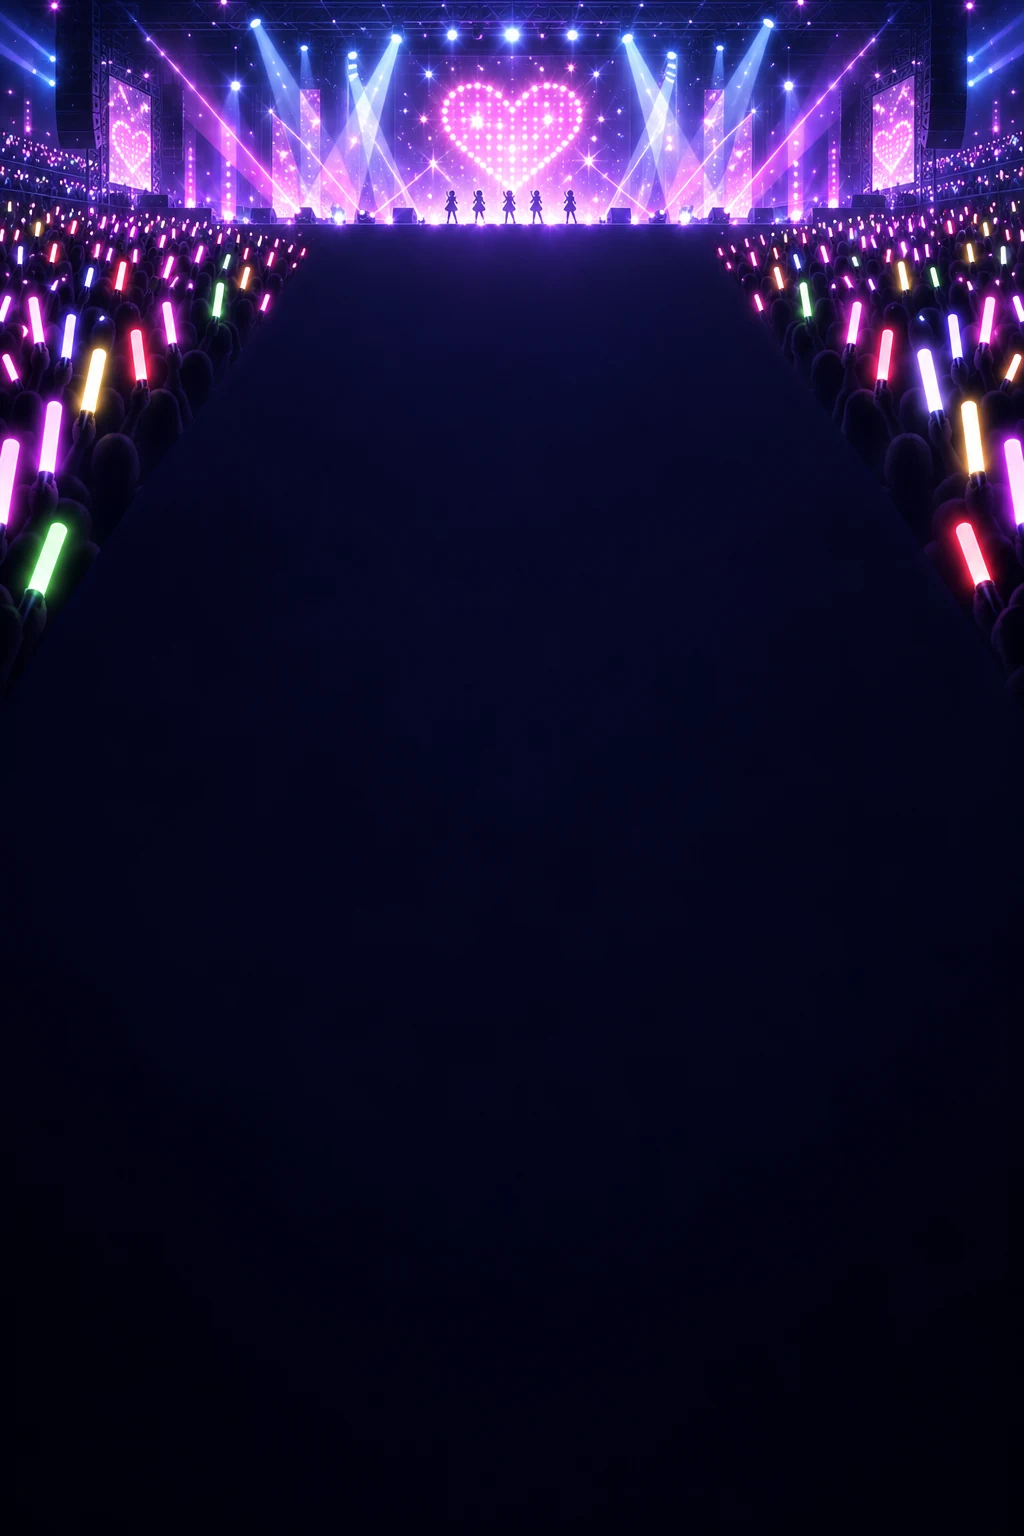
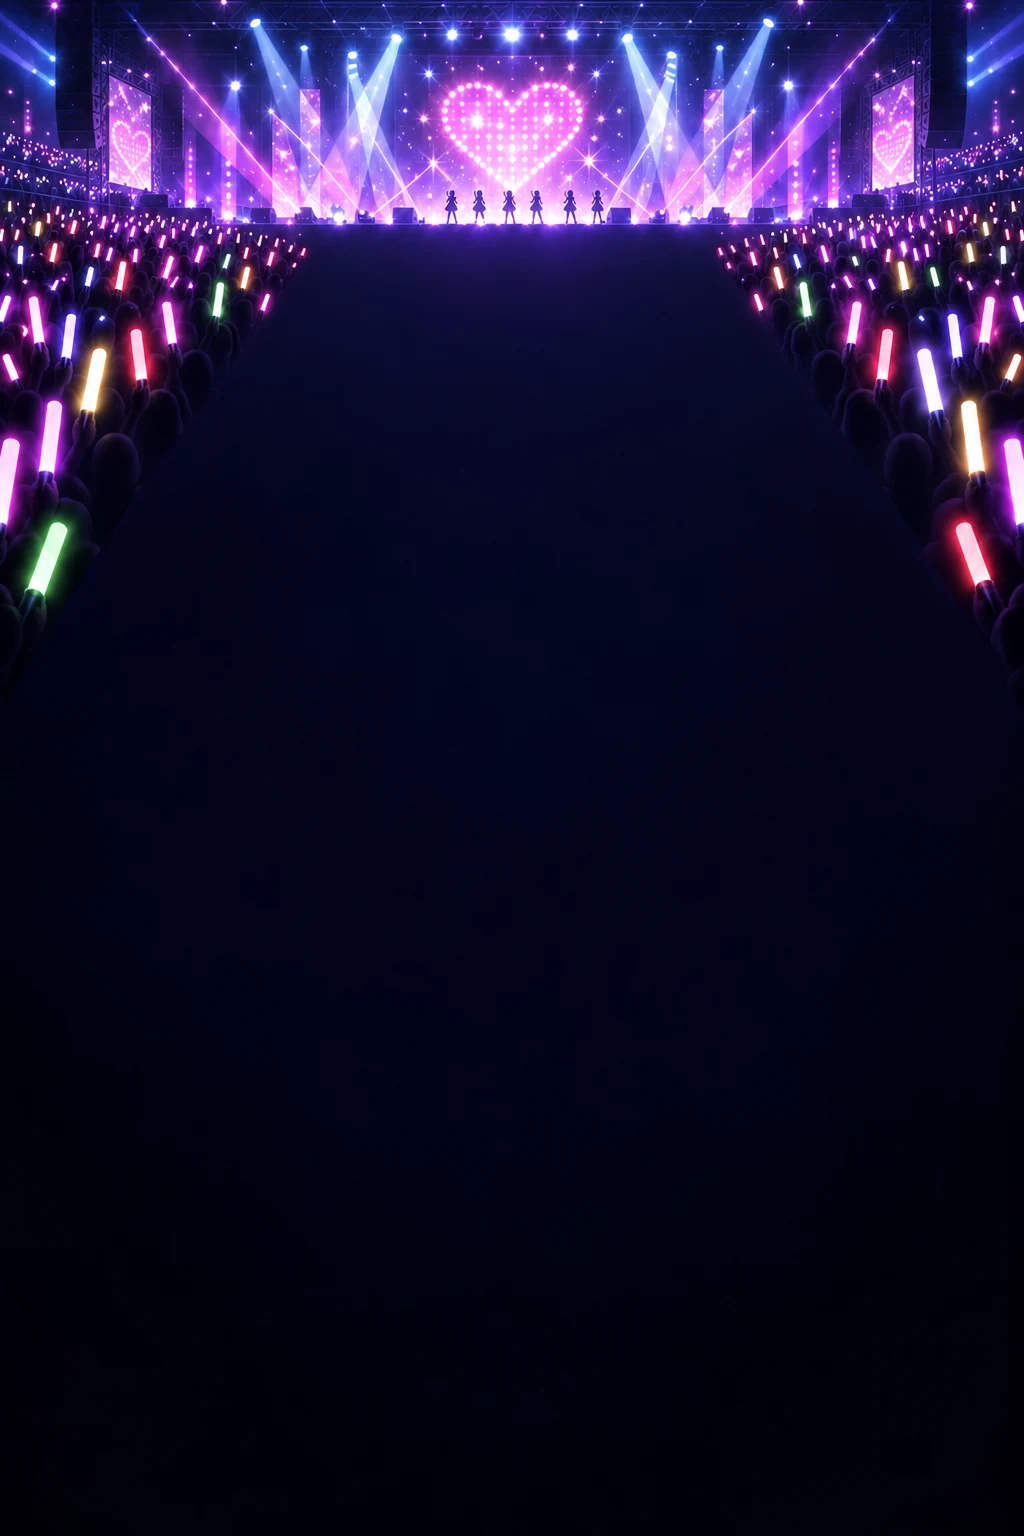
Show six idols on stage and introduce the response-catching theme

Changed region(s): [[0.75, 0.0312, 1.0, 0.1875], [0.0, 0.0312, 0.25, 0.1875], [0.5625, 0.125, 0.5938, 0.1562]]

diff --git a/index.html b/index.html
@@ -15,6 +15,7 @@
     <header class="header"><a class="wordmark" href="./">HEY! <span>RHYTHM!</span><i>✦</i></a><span class="menu-label">6 LANES · FANMADE</span></header>
     <main>
       <h1 class="site-description">Hey!Mommy!の曲でリズムゲーム！</h1>
+      <p class="site-story">ステージから飛んでくるレスを、リズムよく受け止めろ！</p>
       <section class="menu-heading"><p class="eyebrow">SELECT MUSIC</p><button id="open-tutorial" class="tutorial-open" type="button" aria-haspopup="dialog" aria-controls="tutorial">遊び方</button><!-- admin:start --><p class="admin-notice">管理者用 · 譜面の編集・下書きの試遊はこのローカル環境で行います。公開には譜面JSONをリポジトリへ反映してください。</p><!-- admin:end --></section>
       <p id="menu-notice" class="error-box" role="alert" hidden></p>
       <div class="library-toolbar"><label for="song-search">曲を探す<input id="song-search" type="search" placeholder="曲名・アーティストで検索" autocomplete="off" /></label><p id="song-count" role="status"></p></div>

diff --git a/src/menu.css b/src/menu.css
@@ -3,6 +3,7 @@
 .menu-page main { display:block; }
 .menu-label { color:var(--muted); font-size:10px; letter-spacing:1.3px; }
 .site-description { font-family:"RocknRoll One", sans-serif; margin:18px 0 8px; font-size:clamp(18px,3.5vw,28px); line-height:1.6; overflow-wrap:anywhere; }
+.site-story { margin:0 0 12px; color:#e4bde4; font-size:clamp(12px,2.6vw,15px); line-height:1.8; overflow-wrap:anywhere; }
 .menu-heading { padding:12px 0 16px; }
 .library-toolbar { display:flex; flex-wrap:wrap; align-items:end; justify-content:space-between; gap:12px; margin-bottom:22px; }
 .library-toolbar label { width:min(100%,420px); font-size:12px; color:var(--muted); }

diff --git a/docs/design/concept-c.md b/docs/design/concept-c.md
@@ -12,7 +12,7 @@
 
 ## 画像に合わせた部分
 
-- ハートのLED・交差する照明・両側の客席とペンライトがある会場。C案を参照して生成した背景を94KBのWebPで配信し、画面サイズごとに一度だけCanvasへ描きます。
+- 6人のアイドルシルエット・ハートのLED・交差する照明・両側の客席とペンライトがある会場。C案を参照して生成した背景をWebPで配信し、画面サイズごとに一度だけCanvasへ描きます。
 - 奥が狭く手前が広い6レーン、暗い路面から6色へ変わるグラデーション、細い境界線。
 - ネオンの白い輪郭とハートを持つノーツ、光のリボンになる長推し、実際のノーツを直線でつなぐ同時推し。
 - 6個の受け口をつなぐ水平の光、受け口とペンライトの間を結ぶ光、大きい発光部と細いグリップのあるボタン。
